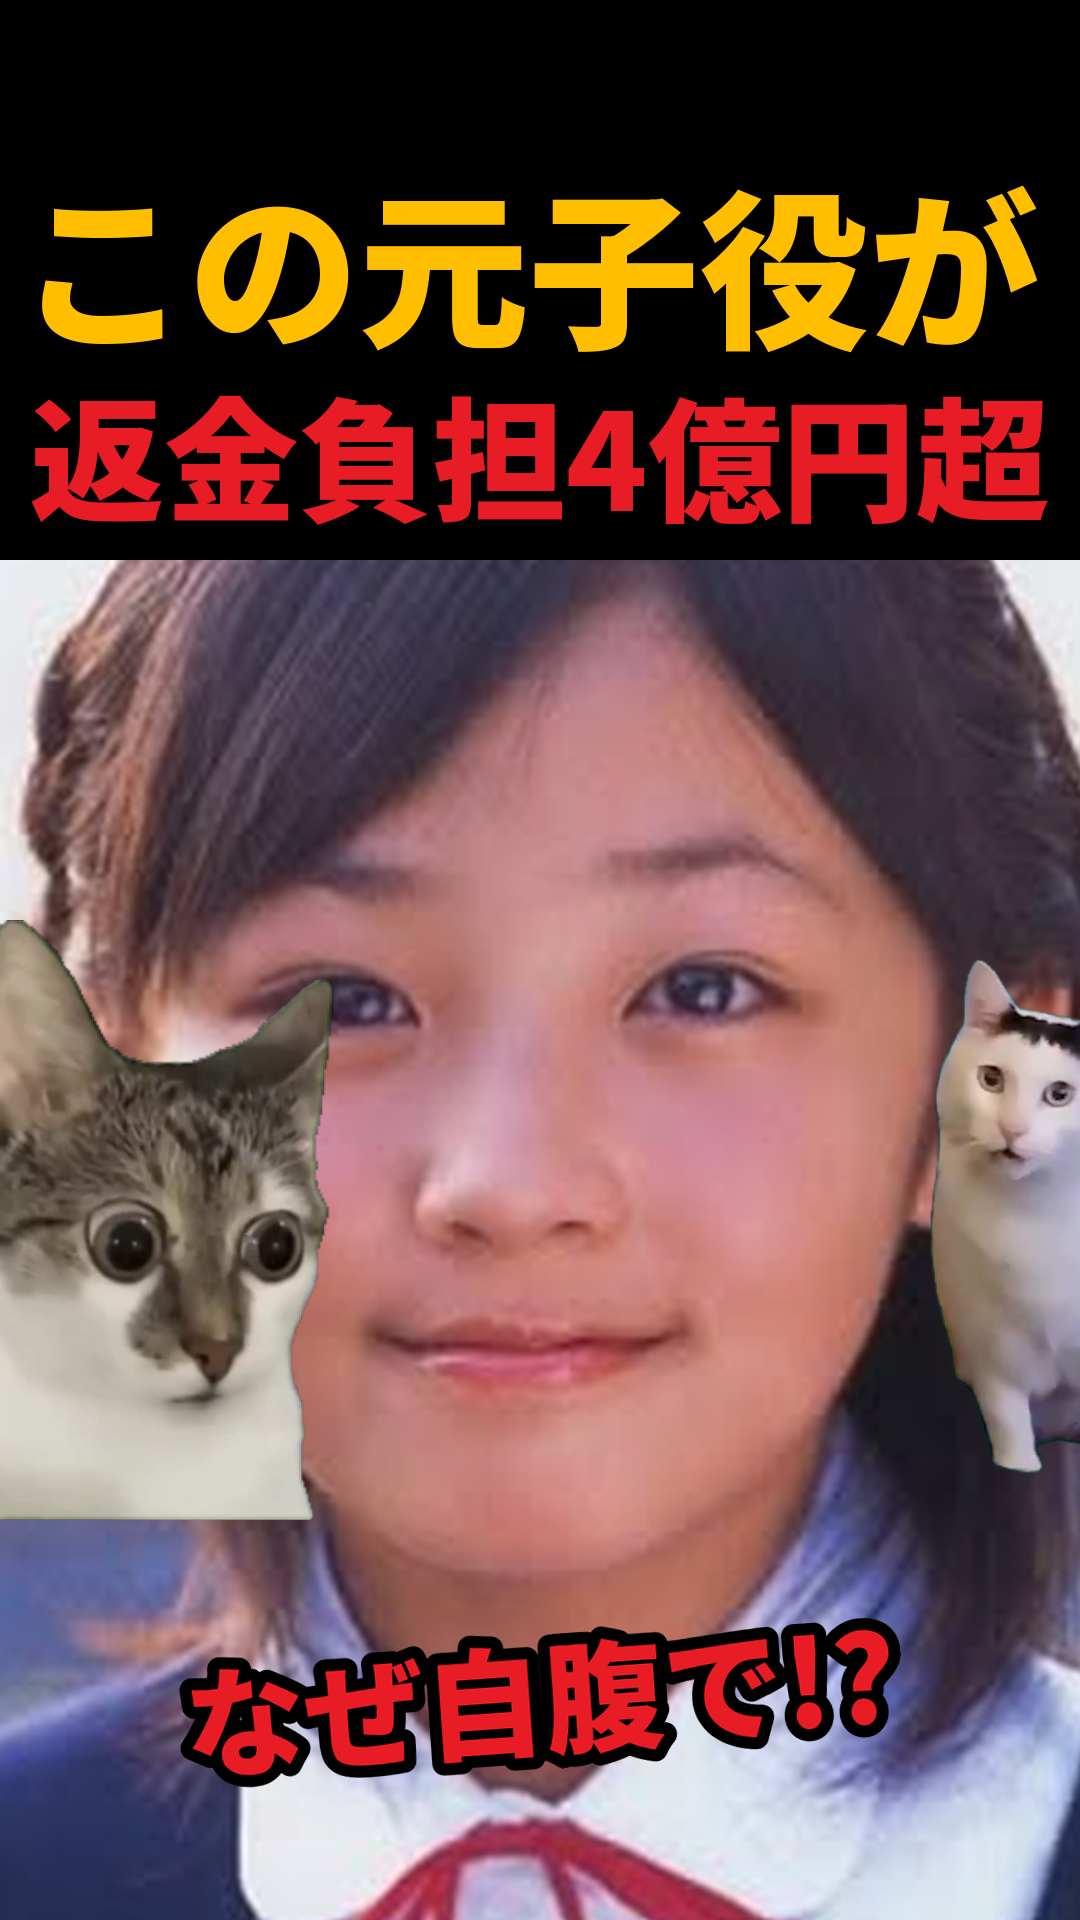
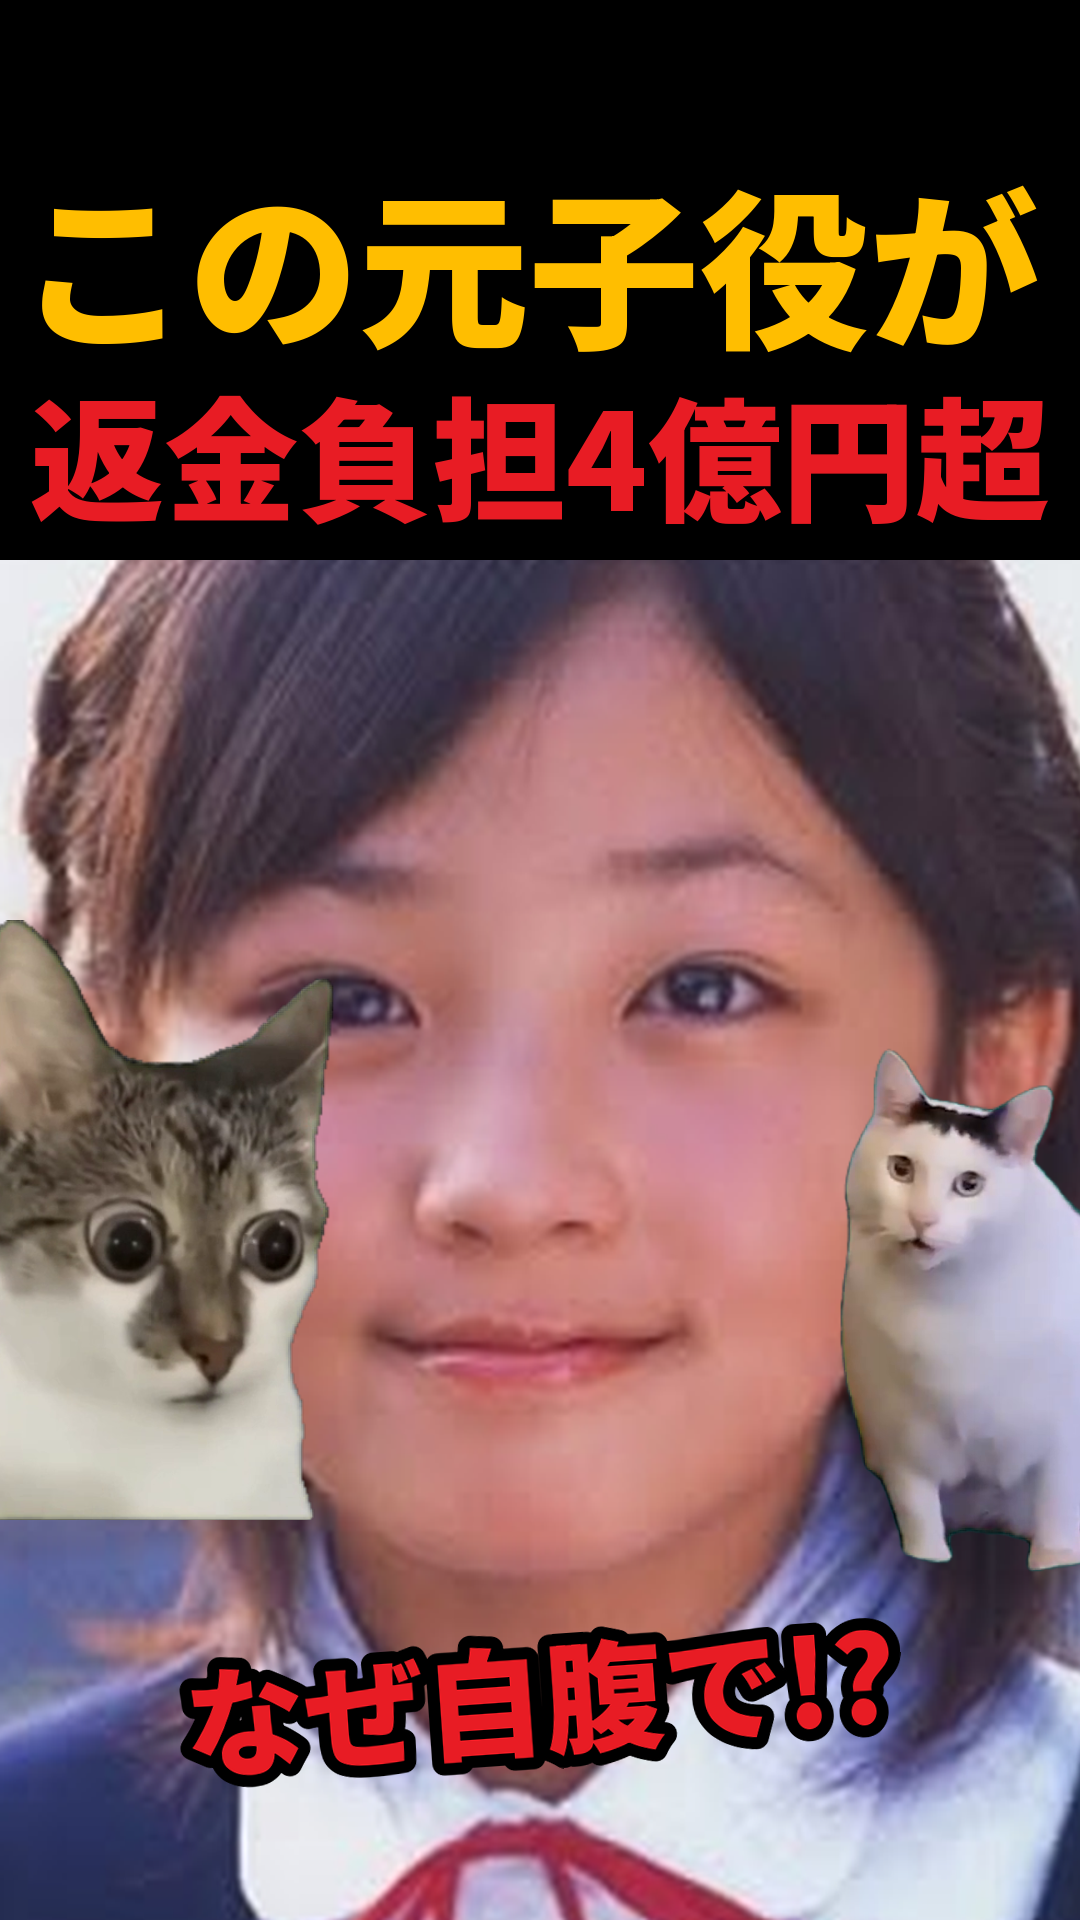
short_16b thumbnail: move white cat left and down
Claude-Session: https://claude.ai/code/session_011g9CsrfFD5YswfNSvNDW39

Changed region(s): [[0.7639, 0.5, 1.0, 0.8438]]

diff --git a/catmeme/make_thumb_short_ref.py b/catmeme/make_thumb_short_ref.py
@@ -139,7 +139,7 @@ def tenchim():
          "bg81_tenchim_neon", [("surprise_big_pupils_cat", 0.6, 150, 1520, 600, False), ("excited_hodomoe_city_cat", 1.0, 950, 1520, 640, True)],
          "どうやって覆した!?", "b", cap_y=1700)
     make("short_16b_tenchim_ref.png", "この元子役が", DEEP_YELLOW, "返金負担4億円超", RED,
-         "bg92_tenchim_child", [("stare_big_eyes_tabby_kitten", 1.0, 150, 1520, 600, False), ("huh_huh_cat", 1.0, 950, 1520, 600, True)],
+         "bg92_tenchim_child", [("stare_big_eyes_tabby_kitten", 1.0, 150, 1520, 600, False), ("huh_huh_cat", 1.0, 860, 1610, 600, True)],
          "なぜ自腹で!?", "b", cap_y=1700)
 
 
